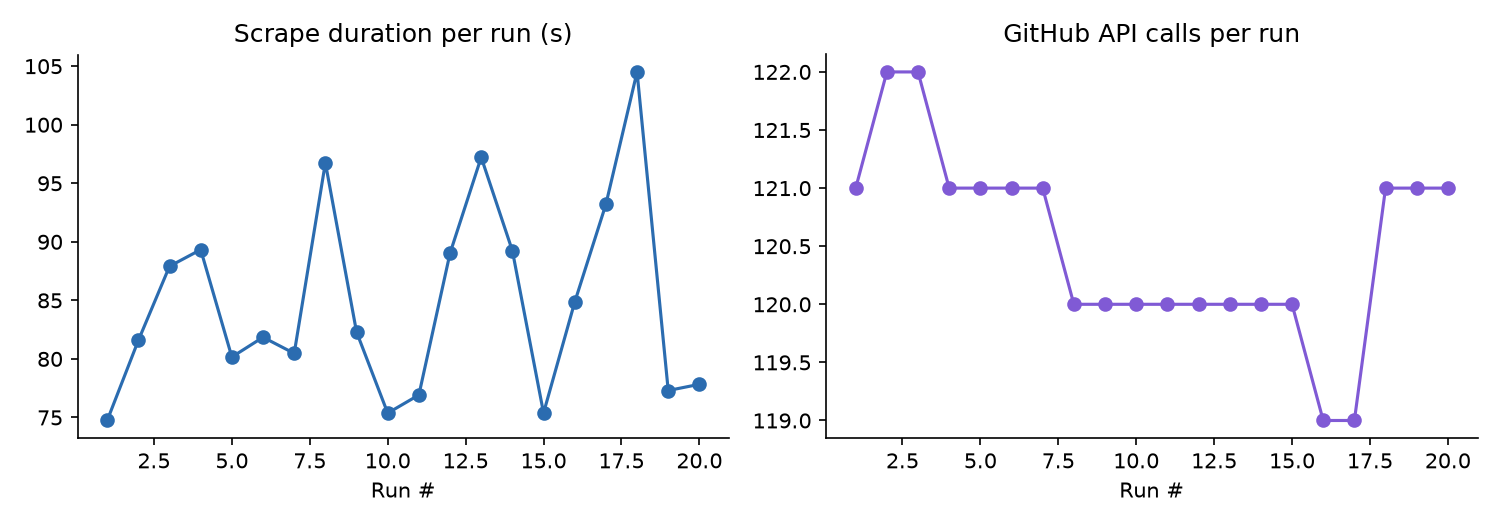
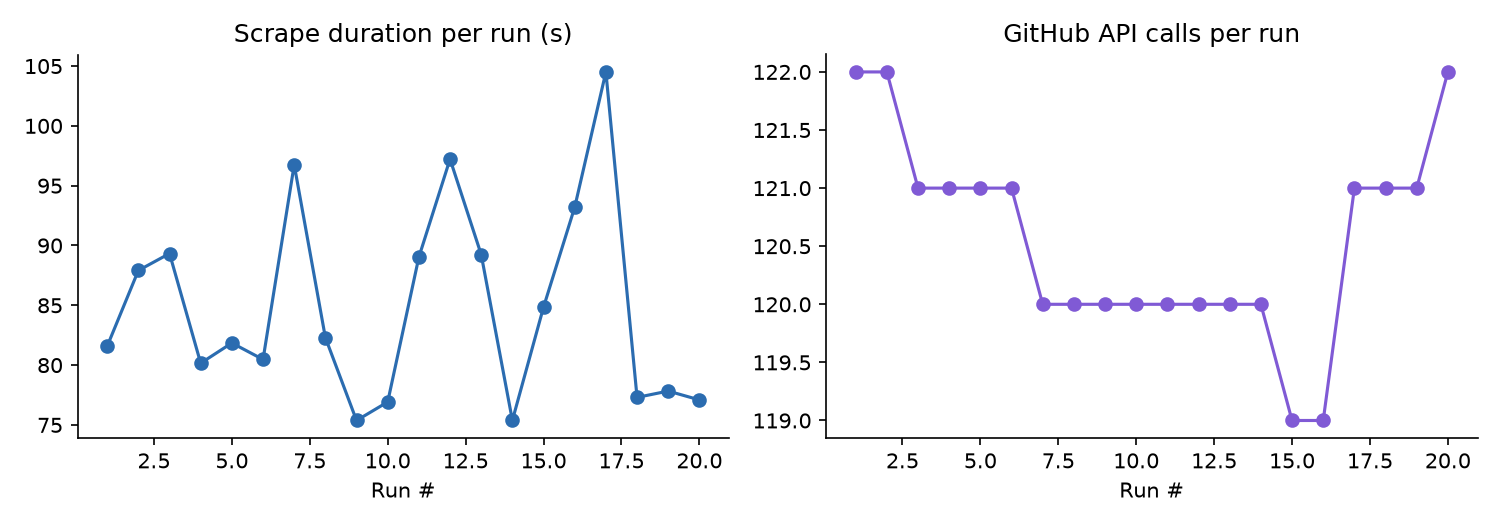
Weekly issue tracker refresh

diff --git a/README.md b/README.md
@@ -81,7 +81,7 @@ See [CONTRIBUTING.md](CONTRIBUTING.md) for the full contributor workflow — inc
 
 <!-- TRACKER:START -->
 
-_Last updated: 2026-10-31 01:38 UTC_
+_Last updated: 2026-10-31 07:29 UTC_
 
 _Tracking **18** upstream repos, **370** relevant open issues._
 
@@ -130,8 +130,8 @@ _Tracking **18** upstream repos, **370** relevant open issues._
 | ★★☆☆☆ | [#11843](https://github.com/ansible-collections/community.general/issues/11843) Re-enable callback unit tests for ansible-core >= 2.21 | bug, callback, has_pr, plugins | 7 | 2026-10-29 |
 | ★★☆☆☆ | [#13108](https://github.com/ansible-collections/community.general/issues/13108) sysrc: non-idempotent handling of whitespace | bug, module, has_pr, plugins | 4 | 2026-10-29 |
 | ★★☆☆☆ | [#8901](https://github.com/ansible-collections/community.general/issues/8901) lvg: resizing existing pv doesn't work against Ubuntu 24.04 | bug, module, needs_info, plugins | 3 | 2026-10-29 |
-| ★★☆☆☆ | [#10544](https://github.com/ansible-collections/community.general/issues/10544) diy callback uses deprecated Templar.template() argument convert_data | bug, callback, plugins | 3 | 2026-10-27 |
-| ★★☆☆☆ | [#6545](https://github.com/ansible-collections/community.general/issues/6545) lvol: Idempotency issue manageing LV | bug, module, has_pr, needs_info, plugins | 3 | 2026-10-26 |
+| ★☆☆☆☆ | [#4037](https://github.com/ansible-collections/community.general/issues/4037) github_release latest tag | feature, module, plugins, source_control | 6 | 2026-10-31 |
+| ★☆☆☆☆ | [#5032](https://github.com/ansible-collections/community.general/issues/5032) [Feature] Get specific/custom release of a public repository github | feature, module | 5 | 2026-10-31 |
 
 ### [ansible/ansible](https://github.com/ansible/ansible)
 
@@ -295,7 +295,7 @@ _Tracking **18** upstream repos, **370** relevant open issues._
 
 <!-- METRICS:START -->
 
-_Last run: 2026-10-31 01:37 UTC, took **77.8s**, **121** GitHub API calls, **4879/5000** rate limit remaining._
+_Last run: 2026-10-31 07:28 UTC, took **77.1s**, **122** GitHub API calls, **4878/5000** rate limit remaining._
 
 ![Scrape metrics trend](assets/metrics_trend.png)
 
